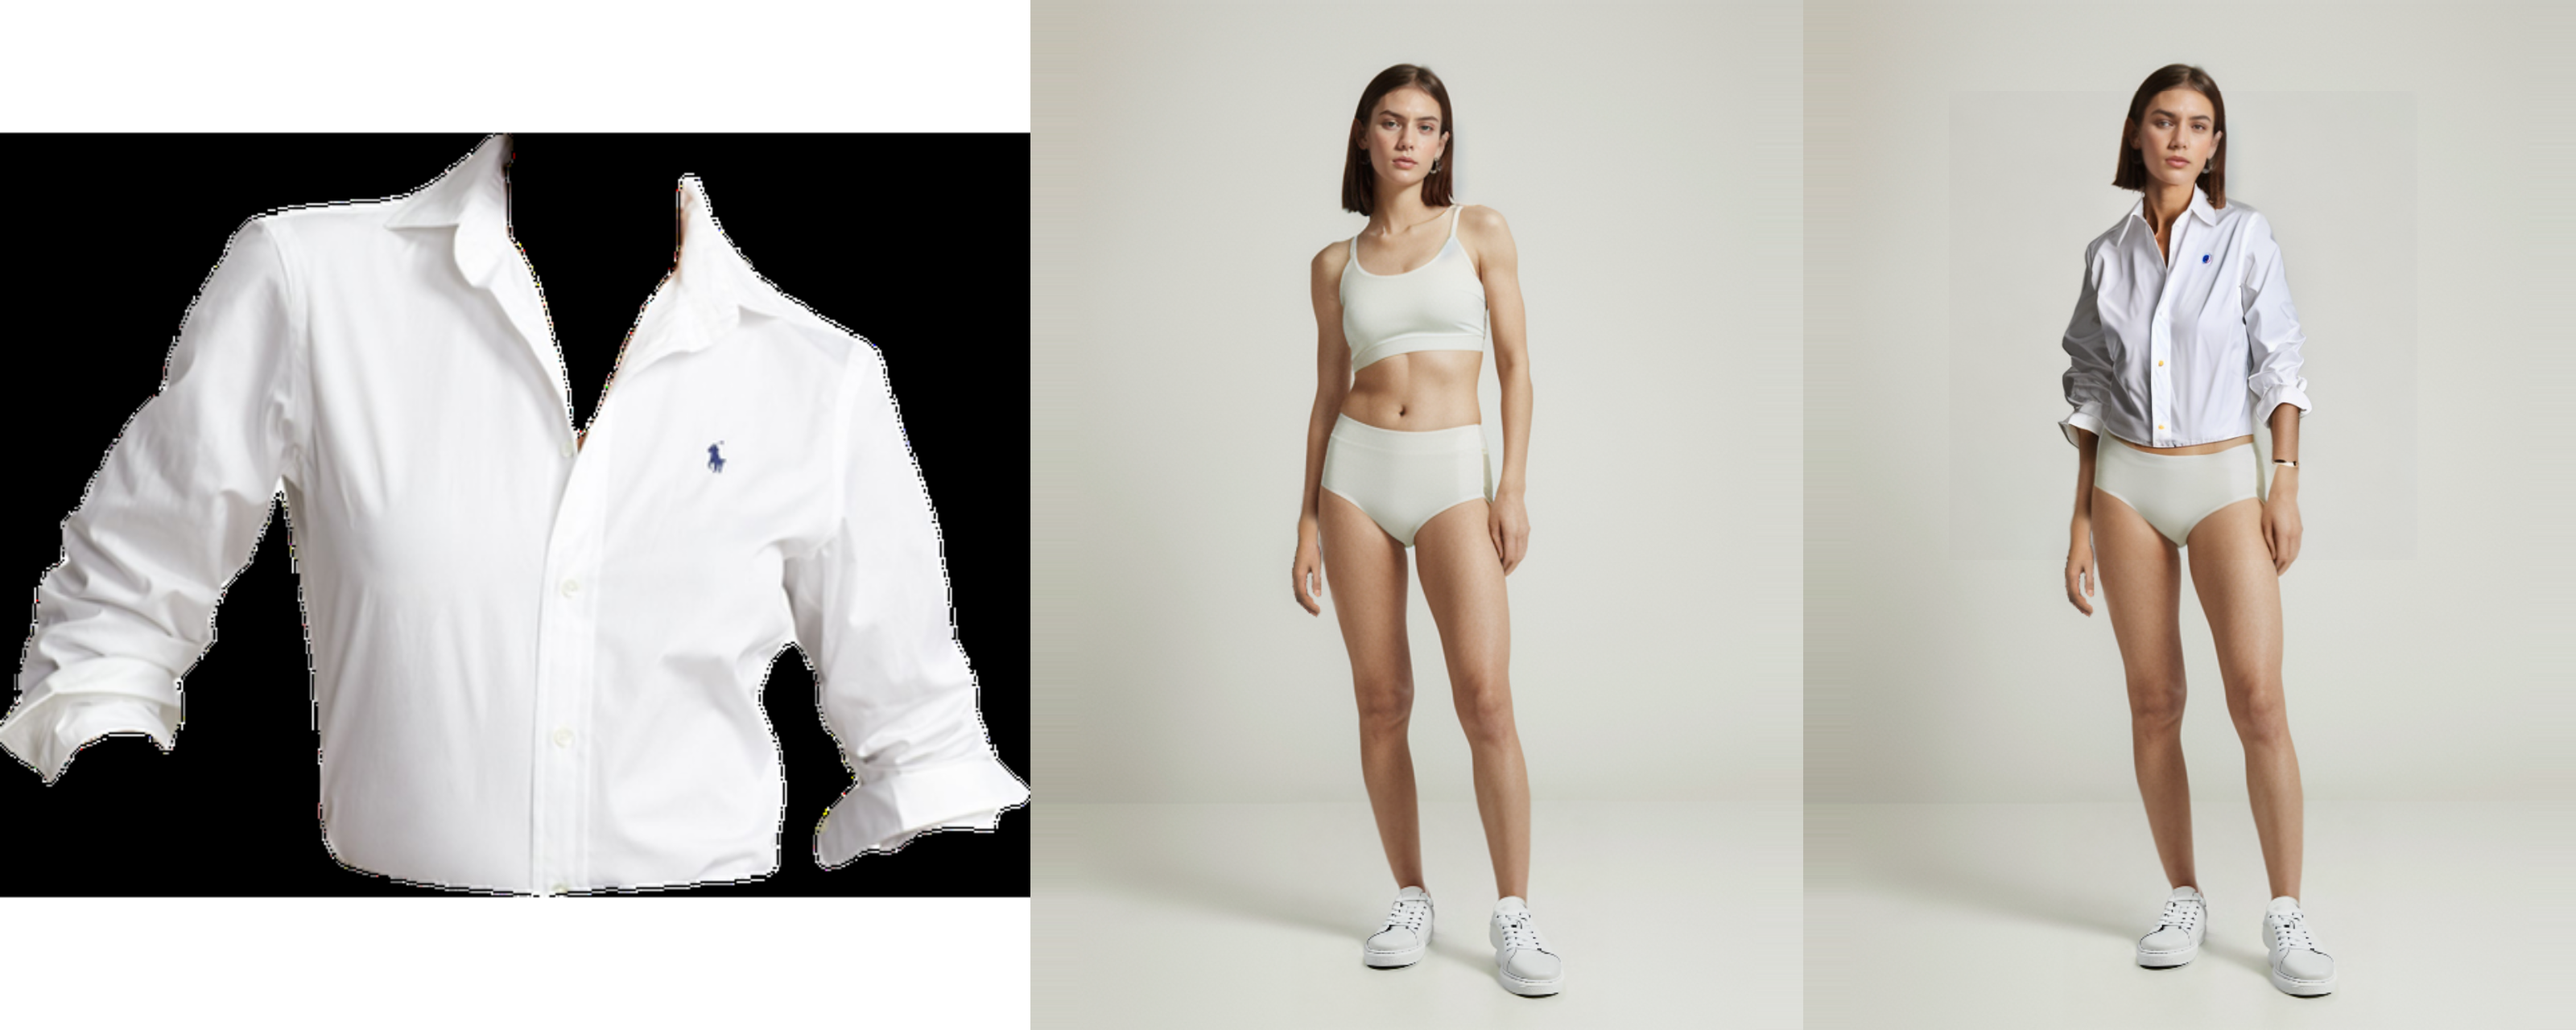
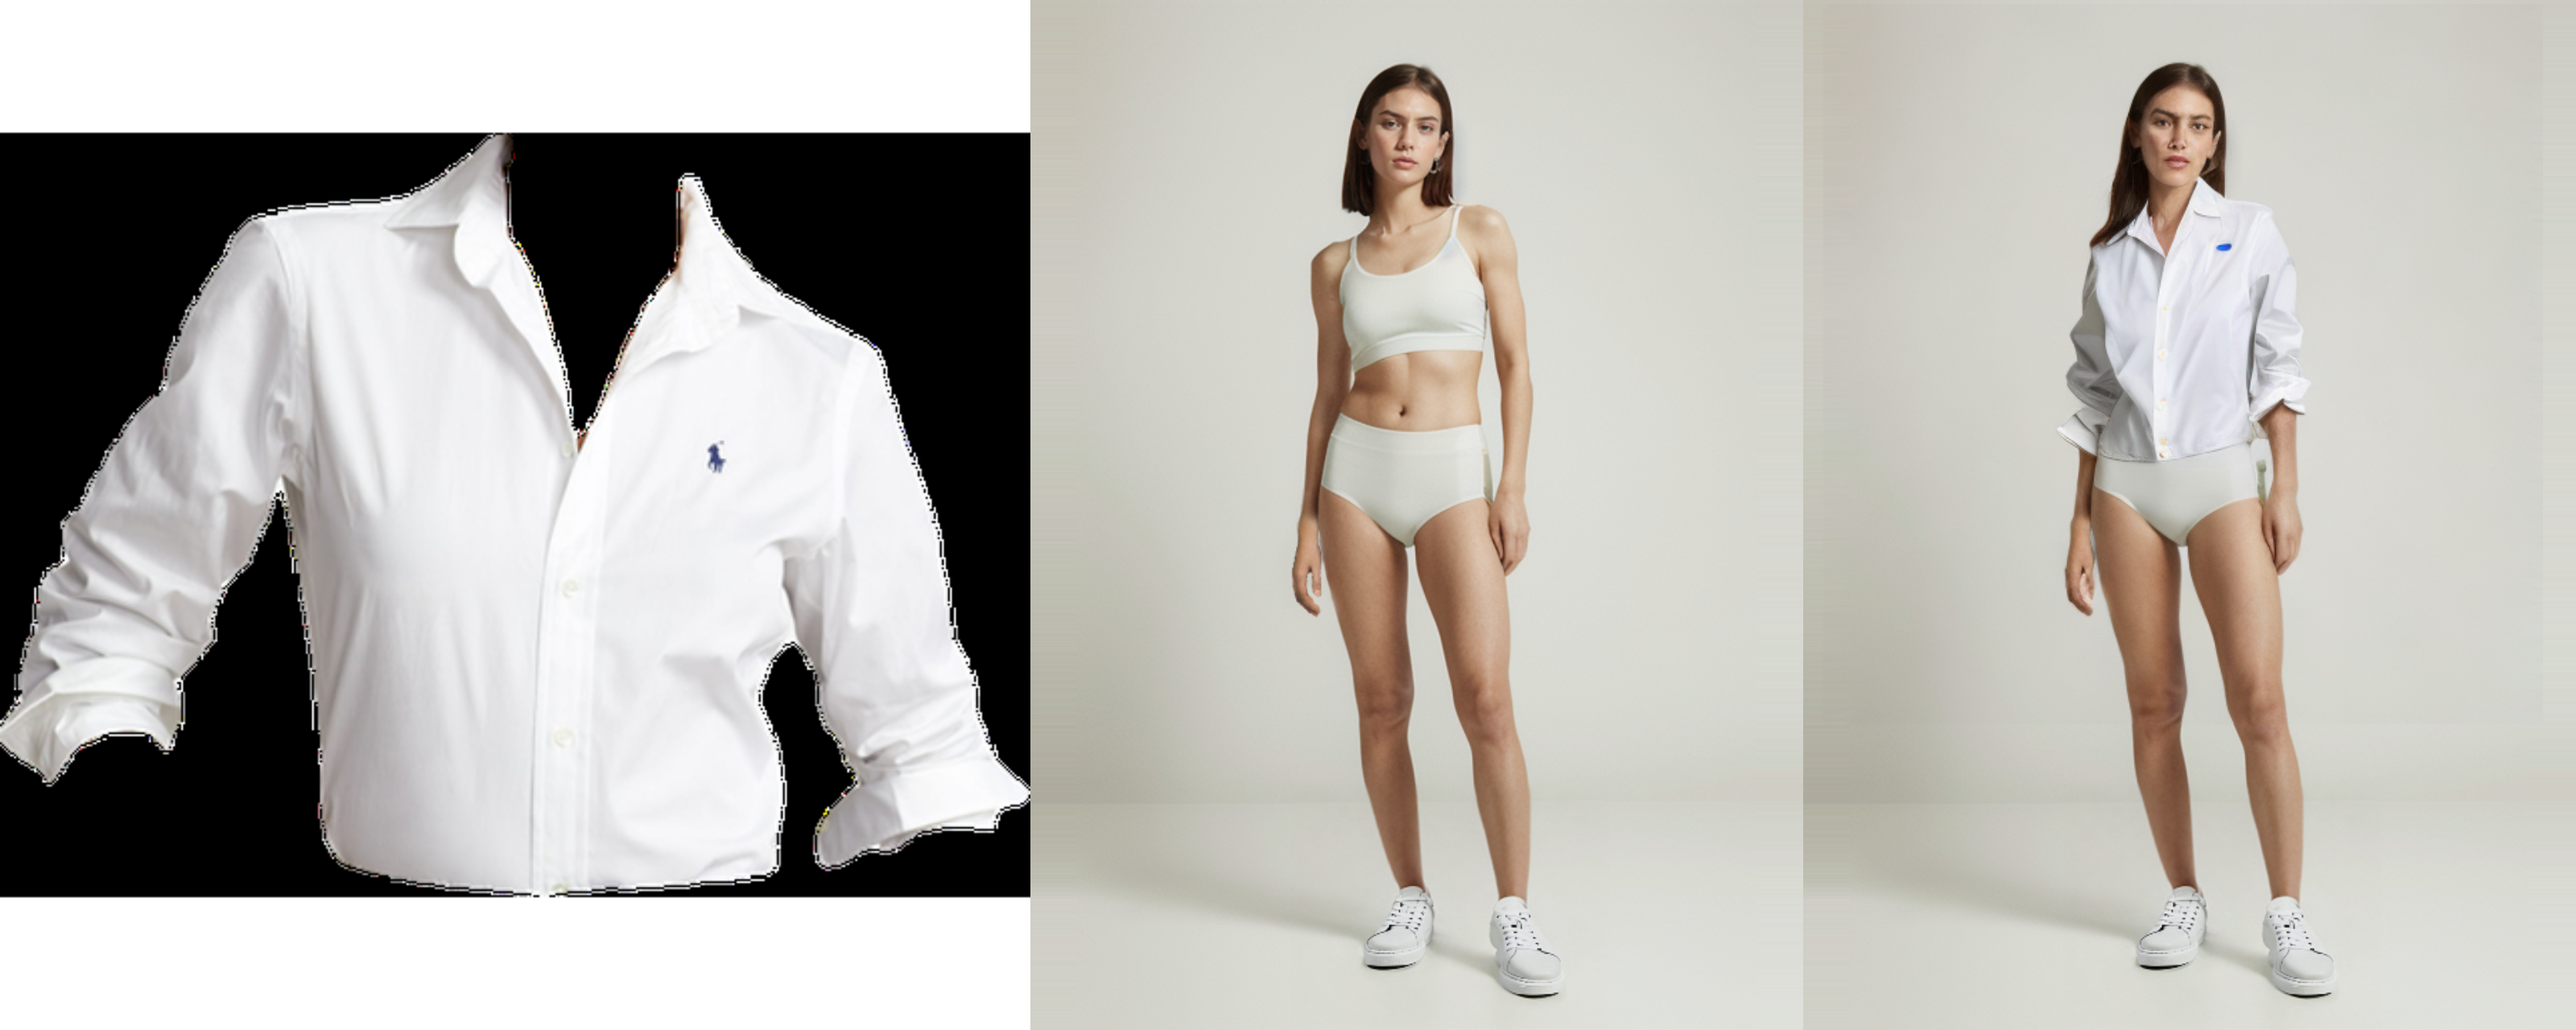
set hyperparameters and tested mask generation

Changed region(s): [[0.7812, 0.1562, 0.9062, 0.4688]]

diff --git a/run_inference.py b/run_inference.py
@@ -173,9 +173,7 @@ def crop_back(pred, tar_image, extra_sizes, tar_box_yyxx_crop):
     return gen_image
 
 
-def inference_single_image(
-    ref_image, ref_mask, tar_image, tar_mask, guidance_scale=5.0
-):
+def inference_single_image(ref_image, ref_mask, tar_image, tar_mask, guidance_scale=4):
     item = process_pairs(ref_image, ref_mask, tar_image, tar_mask)
     ref = item["ref"] * 255
     tar = item["jpg"] * 127.5 + 127.5
@@ -226,7 +224,7 @@ def inference_single_image(
     # ====
     num_samples = 1  # gr.Slider(label="Images", minimum=1, maximum=12, value=1, step=1)
     image_resolution = 512  # gr.Slider(label="Image Resolution", minimum=256, maximum=768, value=512, step=64)
-    strength = 1  # gr.Slider(label="Control Strength", minimum=0.0, maximum=2.0, value=1.0, step=0.01)
+    strength = 0.9  # gr.Slider(label="Control Strength", minimum=0.0, maximum=2.0, value=1.0, step=0.01)
     guess_mode = False  # gr.Checkbox(label='Guess Mode', value=False)
     # detect_resolution = 512  #gr.Slider(label="Segmentation Resolution", minimum=128, maximum=1024, value=512, step=1)
     ddim_steps = (
@@ -272,6 +270,22 @@ def inference_single_image(
     tar_box_yyxx_crop = item["tar_box_yyxx_crop"]
     gen_image = crop_back(pred, tar_image, sizes, tar_box_yyxx_crop)
     return gen_image
+
+
+def check_image_format(image):
+    # Check if the image was loaded successfully
+    if image is None:
+        print("Error: Image not loaded. Check the file path.")
+        return False
+    # Check if the image has 4 channels (RGBA, including alpha channel)
+    if image.shape[2] != 4:
+        print(
+            "Error: Image does not have 4 channels. It is required to have an alpha channel."
+        )
+        return False
+    # If both checks pass
+    print("Image is in the correct format.")
+    return True
 
 
 if __name__ == "__main__":
@@ -347,6 +361,13 @@ if __name__ == "__main__":
     )
 
     # test_paths = [lower_on_upper_inpaint, pants_inpaint]
+    # used to test the mask generation code
+    mask_test = Test_tuple(
+        reference_image_path="./examples/SUS/FG/t-shirt.png",
+        bg_image_path="./examples/SUS/BG/Eva_0.png",
+        bg_mask_path="./examples/SUS/BG/Eva_mask_upper.png",
+        save_path="./examples/SUS/GEN/Eva_upper.png",
+    )
 
     for test in test_paths:
         reference_image_path = test.reference_image_path
@@ -355,10 +376,13 @@ if __name__ == "__main__":
         save_path = test.save_path
 
         # reference image + reference mask
+        # target image should have the alpha channel set, to generate the mask
         # You could use the demo of SAM to extract RGB-A image with masks
         # https://segment-anything.com/demo
         image = cv2.imread(reference_image_path, cv2.IMREAD_UNCHANGED)
+        check_image_format(image)
         mask = (image[:, :, -1] > 128).astype(np.uint8)
+
         image = image[:, :, :-1]
         image = cv2.cvtColor(image.copy(), cv2.COLOR_BGR2RGB)
         ref_image = image
